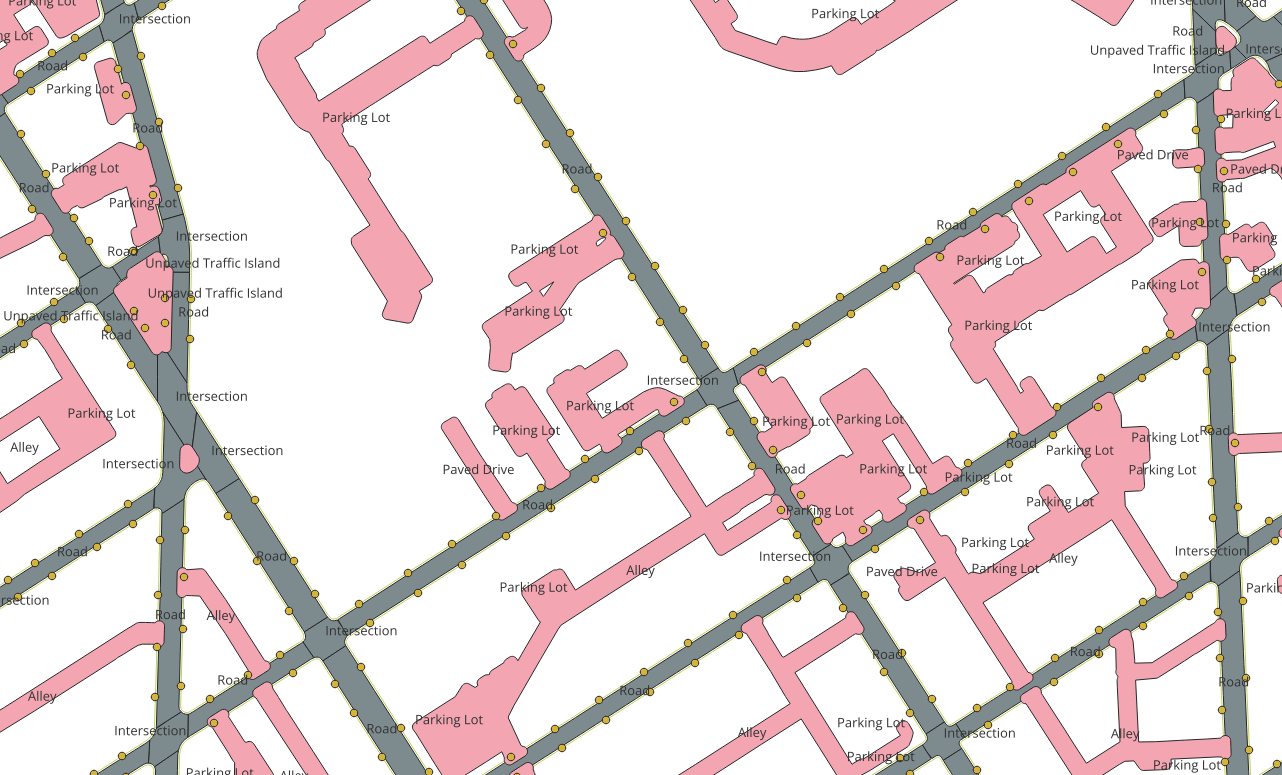
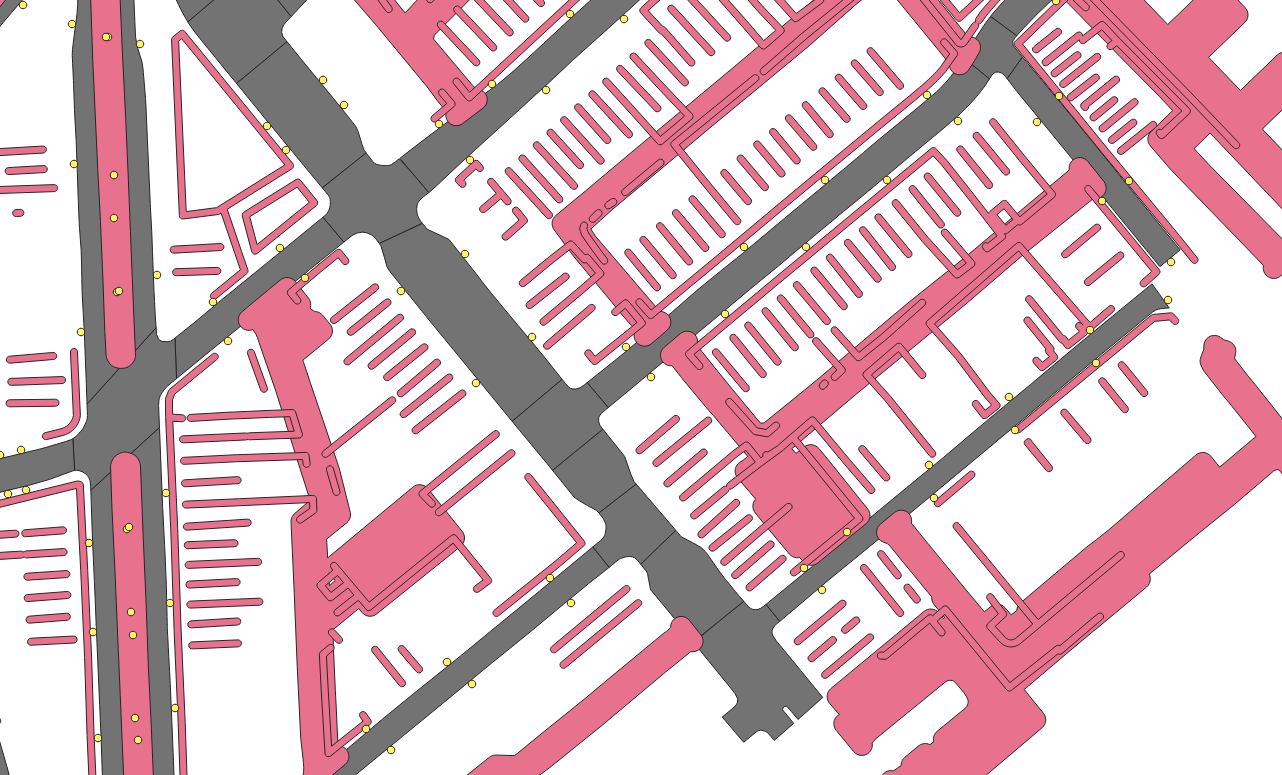
structure lines

diff --git a/app.ts b/app.ts
@@ -11,13 +11,8 @@ await client.connect();
 
 const loadObjects = async (takeSmallPart = true) => {
   if (takeSmallPart) {
-    await client.queryObject("create table if not exists part(geom geometry);");
-
-    await client.queryObject("truncate table part;");
-
-    await client.queryObject(
-      "insert into part values(st_makeenvelope(4139149.4,165783.9,4140664.2,164921.7,2855));"
-    );
+    const envelope =
+      "st_makeenvelope(4139149.4,165783.9,4140664.2,164921.7,2855)";
 
     await client.queryObject(
       "create table if not exists objects2(description varchar(50), geom geometry);"
@@ -36,7 +31,27 @@ const loadObjects = async (takeSmallPart = true) => {
     await client.queryObject("truncate table objects;");
 
     await client.queryObject(
-      "insert into objects select description, geom from objects2 where st_intersects(geom, (select geom from part));"
+      `insert into objects select description, geom from objects2 where st_intersects(geom, ${envelope});`
+    );
+
+    await client.queryObject(
+      "create table if not exists structures2(geom geometry);"
+    );
+
+    await client.queryObject("truncate table structures2;");
+
+    await client.queryObject(
+      `insert into structures2 select st_transform(geom, 2855) from structure_lines;`
+    );
+
+    await client.queryObject(
+      "create table if not exists structures(geom geometry);"
+    );
+
+    await client.queryObject("truncate table structures;");
+
+    await client.queryObject(
+      `insert into structures select geom from structures2 where st_intersects(geom, ${envelope});`
     );
   } else {
     await client.queryObject(
@@ -113,7 +128,10 @@ const clearAndPlaceInIntersections = async () => {
   );
 };
 
-const clearObstacles = async () => {
+const clearObstacles = async (
+  spacingForStructureLines: number,
+  spacingForOther: number
+) => {
   await client.queryObject(
     "create table if not exists clearedFromObstacles(geom geometry);"
   );
@@ -128,7 +146,11 @@ const clearObstacles = async () => {
   await client.queryObject("truncate table toMove;");
 
   await client.queryObject(
-    `insert into obstacles select st_buffer(st_union(geom), 3) from objects where description != 'Road' and description != 'Intersection';`
+    `insert into obstacles select st_buffer(st_union(geom), ${spacingForOther}) from objects where description != 'Road' and description != 'Intersection';`
+  );
+
+  await client.queryObject(
+    `insert into obstacles select st_buffer(st_union(geom), ${spacingForStructureLines}) from structures;`
   );
 
   await client.queryObject(
@@ -177,7 +199,7 @@ try {
   await placePoles(30);
   await findIntersections(15, 30);
   await clearAndPlaceInIntersections();
-  await clearObstacles();
+  await clearObstacles(1, 3);
   await movePolesAwayFromObstacles();
   await removeClosePoints(10);
 } catch (e) {
